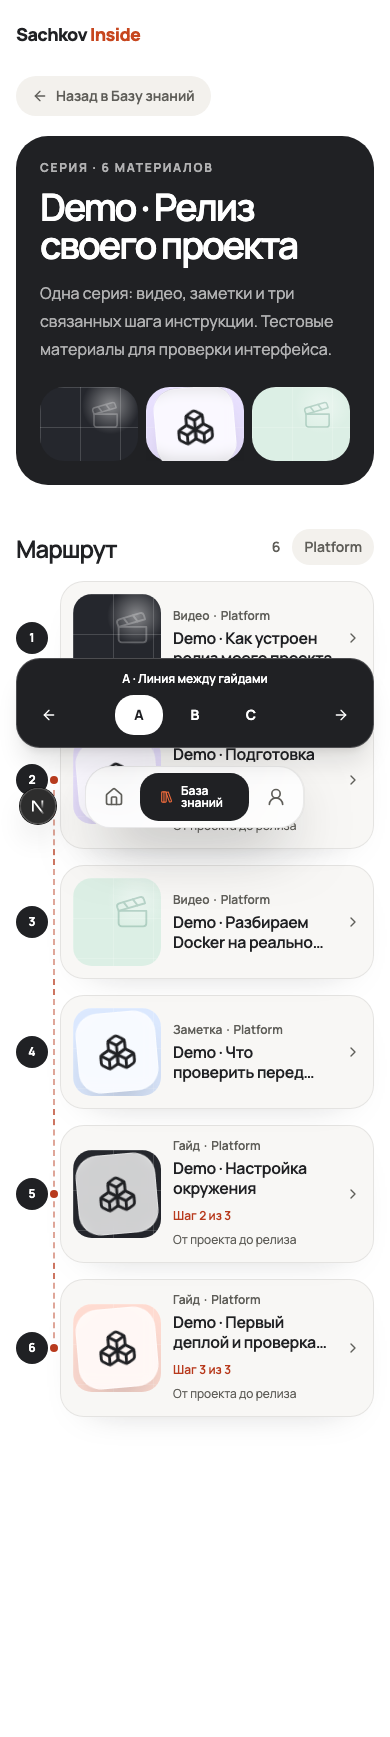
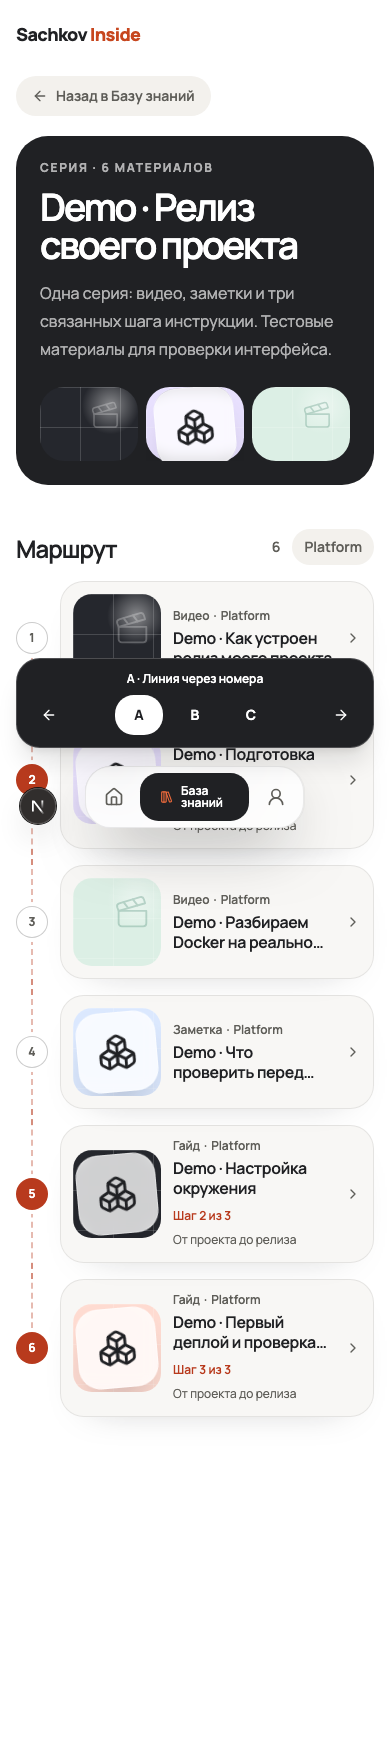
prototype: align sequence line with numbered markers

diff --git a/apps/web/src/_pages/library-discovery/ui/series-cards.prototype.tsx b/apps/web/src/_pages/library-discovery/ui/series-cards.prototype.tsx
@@ -53,11 +53,6 @@ export function SeriesCardsPrototype({ items, seriesSlug, returnHref }: { readon
   const requested = query.get("variant");
   const variant = requested === "B" || requested === "C" ? requested : "A";
   const steps = seriesSteps(items, seriesSlug);
-  const labels = [...new Set([...steps.values()].map(({ label }) => label))];
-  const ranges = labels.map(label => {
-    const indices = items.flatMap((item, index) => steps.get(item.slug)?.label === label ? [index] : []);
-    return { label, first: indices[0]!, last: indices.at(-1)! };
-  });
   return <div className="pb-36" data-card-prototype={variant}>
     {variant === "C" ? <SequenceOverview items={items} steps={steps} /> : null}
     <ol className="mt-4 grid gap-4" data-series-order aria-label="Материалы серии">{items.map((material, index) => {
@@ -66,10 +61,11 @@ export function SeriesCardsPrototype({ items, seriesSlug, returnHref }: { readon
       const related = step ? items.filter(item => steps.get(item.slug)?.label === step.label) : [];
       const guideIndex = related.indexOf(material);
       return <li className="relative grid scroll-mt-24 grid-cols-[2rem_minmax(0,1fr)] items-center gap-3" data-series-ordinal={ordinal} id={anchor(material.slug)} key={material.slug}>
-        {variant === "A" ? ranges.filter(({ first, last }) => index >= first && index <= last && first !== last).map(({ label, first, last }) => <span key={label} aria-hidden="true" data-guide-rail className="pointer-events-none absolute left-[37px] z-10 w-px border-l-2 border-dashed border-action/45" style={{ top: index === first ? "50%" : "-1rem", bottom: index === last ? "50%" : "-1rem" }} />) : null}
-        {variant === "A" && step ? <span aria-hidden="true" className="pointer-events-none absolute left-[34px] top-1/2 z-10 size-2 -translate-y-1/2 rounded-full bg-action ring-2 ring-white" /> : null}
-        <div className="flex min-h-11 items-center font-semibold text-muted-foreground">
-          <span className="grid size-8 place-items-center rounded-full bg-primary text-xs font-bold text-white">{ordinal}</span>
+        {variant === "A" && items.length > 1 ? <span aria-hidden="true" data-guide-rail className="pointer-events-none absolute left-[15px] w-0 border-l-2 border-dashed border-action/35" style={{ top: index === 0 ? "50%" : "-1rem", bottom: index === items.length - 1 ? "50%" : "-1rem" }} /> : null}
+        <div className="relative z-10 flex min-h-11 items-center font-semibold text-muted-foreground">
+          <span data-sequence-marker={step ? "guide-step" : "material"} className={`grid size-8 place-items-center rounded-full text-xs font-bold ${variant === "A"
+            ? step ? "bg-action text-white ring-4 ring-white" : "border border-black/20 bg-white text-muted-foreground ring-4 ring-white"
+            : "bg-primary text-white"}`}>{ordinal}</span>
         </div>
         <div className="min-w-0">
           <MaterialCard headingLevel="h3" material={material} returnHref={returnHref} variant="row"

diff --git a/apps/web/src/shared/ui/prototype-switcher.tsx b/apps/web/src/shared/ui/prototype-switcher.tsx
@@ -6,7 +6,7 @@ import { useCallback, useEffect } from "react";
 import type { Route } from "next";
 
 export const cardVariants = [
-  { key: "A", name: "Линия между гайдами" },
+  { key: "A", name: "Линия через номера" },
   { key: "B", name: "Ссылки между гайдами" },
   { key: "C", name: "Схема последовательности" },
 ] as const;

diff --git a/docs/evidence/issue-301/README.md b/docs/evidence/issue-301/README.md
@@ -16,8 +16,10 @@
 номера и порядок списка. Меняется слой связей. Вариант B добавляет ссылки в слот отметки;
 на узком экране это может увеличить высоту карточки. Карточки без шага не изменены.
 
-- A — пунктирная линия соединяет отмеченные гайды через промежуточные видео/заметки.
-  Точки есть только у связанных шагов. Сама цепочка остаётся частью общего списка.
+- A — по последнему выбору владельца линия проходит через центры кружков с общими номерами,
+  соединяя весь список от первого материала до последнего. У шагов инструкции кружки
+  заполнены акцентным цветом, у видео/заметок — нейтральные контурные. Отдельные маленькие
+  точки убраны. Подпись «Шаг N из M» внутри карточки сохраняет номер именно в инструкции.
 - B — ссылки на предыдущий/следующий шаг внутри отметки гайда. Клик прокручивает этот же
   список к связанному гайду; название адресата видно в tooltip. Reader navigation не меняется.
 - C — компактная схема инструкции перед списком. Каждый шаг связан якорем с исходной
@@ -51,7 +53,7 @@ URL: http://127.0.0.1:3215/series/demo-series-release?variant=A
   с первого гайда к шагу 2; C: переход из схемы к вставленному видео, оставаясь в списке.
 - Desktop 1440×1000 и mobile 390×844: Playwright CLI captures A/B/C; каждый вариант содержит
   все шесть материалов в исходном порядке и три отметки внутри карточек. A показывает
-  непрерывную связь, C — обзор цепочки. В B ссылки компактные, названия адресатов — в tooltip.
+  непрерывную связь на оси общих номеров, C — обзор цепочки. В B ссылки компактные, названия адресатов — в tooltip.
 - Web typecheck прошёл. Полный тестовый/CI прогон для throwaway UI не запускался, по prototype
   workflow. Эта проверка не заменяет production visual acceptance будущего выбранного варианта.
 
